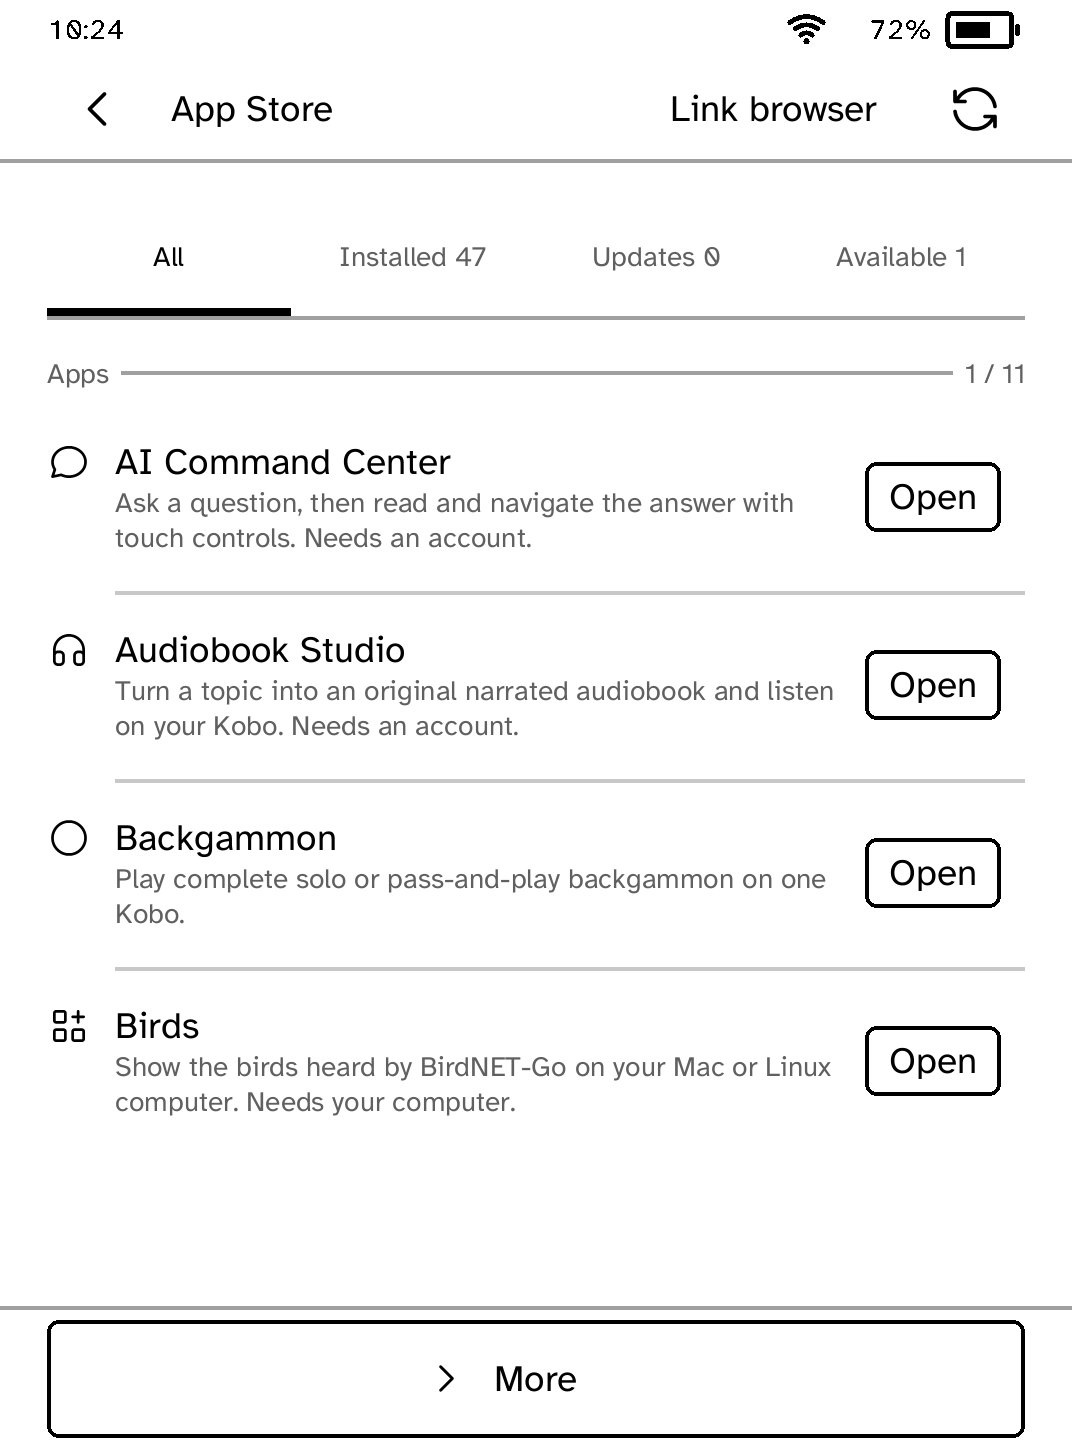
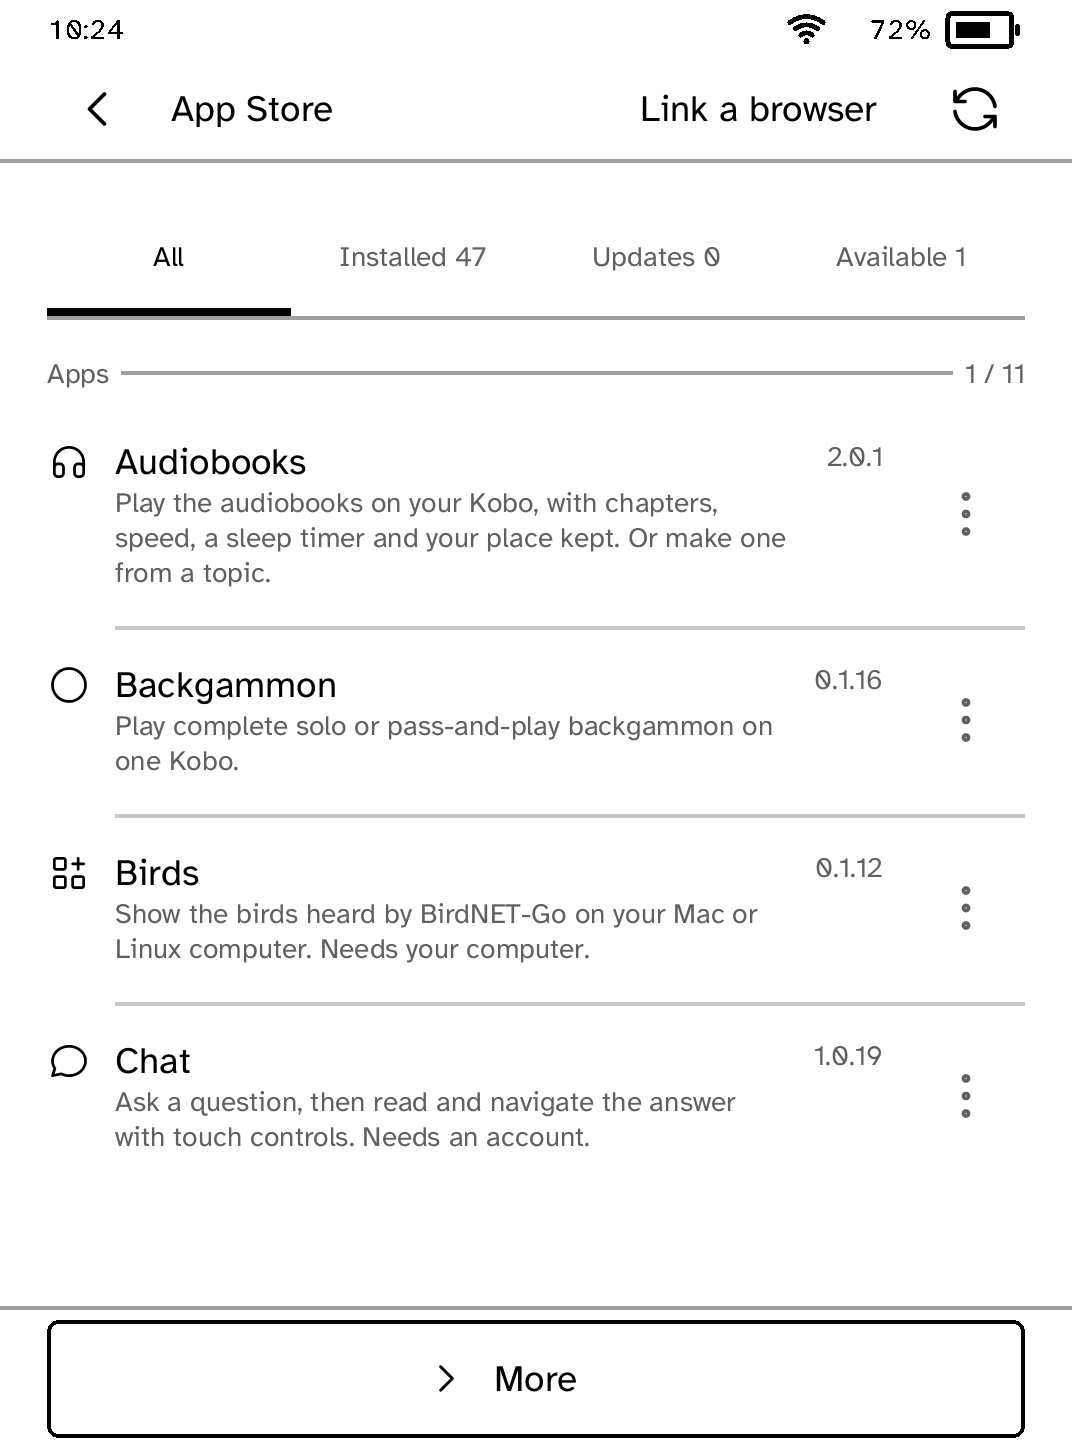
Call linking a browser one thing in Store, and say what to do when offline
Three taps used three names for one thing: Link browser in the list's
bar, Install from a browser over the screen it opened, and Link this
Kobo in the middle of it. Each is now Link a browser, the screen's
empty state says No browser linked, and the pairing steps no longer
switch to "pair".

A refresh that could not reach the network quoted the runtime: "the
device or network is unreachable. The last verified list is still
shown." It now says the list may be out of date and to connect to Wi-Fi
and refresh, or to refresh later when the network was not the cause.

diff --git a/docs/index.html b/docs/index.html
@@ -508,7 +508,7 @@ footer nav { display: flex; gap: 22px; flex-wrap: wrap; }
         <p>Opens installed apps and always keeps a route back to the Kobo reader.</p>
       </div>
       <div class="app">
-        <a class="shot" href="apps/store/"><picture><source type="image/webp" sizes="(max-width: 465px) calc(100vw - 36px), (max-width: 931px) 314px, 240px" srcset="media/site/app-thumbs/store-480w-9391822cf9f6.webp 480w, media/site/app-thumbs/store-800w-9391822cf9f6.webp 800w"><img src="media/site/apps/store.png" width="1072" height="1448" loading="lazy" alt="The Cobalt App Store listing installed and available apps"></picture></a>
+        <a class="shot" href="apps/store/"><picture><source type="image/webp" sizes="(max-width: 465px) calc(100vw - 36px), (max-width: 931px) 314px, 240px" srcset="media/site/app-thumbs/store-480w-ea060affe12d.webp 480w, media/site/app-thumbs/store-800w-ea060affe12d.webp 800w"><img src="media/site/apps/store.png" width="1072" height="1448" loading="lazy" alt="The Cobalt App Store listing installed and available apps"></picture></a>
         <h3><a href="apps/store/">App Store</a></h3>
         <p>Installs, updates, removes and reinstalls signed apps over Wi-Fi.</p>
       </div>

diff --git a/examples/store/src/main.rs b/examples/store/src/main.rs
@@ -145,6 +145,24 @@ impl Notice {
     }
 }
 
+/// What a refresh that failed says, in the owner's words and with the one
+/// thing to do next.
+///
+/// It used to append the runtime's own description, so an owner with Wi-Fi off
+/// read "the device or network is unreachable" and then that the last
+/// verified list was still shown, which is two sentences about the machinery
+/// and none about what to do.
+fn refresh_failure(error: DeviceError) -> String {
+    match error {
+        DeviceError::Unreachable | DeviceError::NotFound | DeviceError::TimedOut => {
+            "The list could not be updated, so it may be out of date. Connect to Wi-Fi and refresh."
+                .to_owned()
+        }
+        _ => "The list could not be updated, so it may be out of date. Refresh again later."
+            .to_owned(),
+    }
+}
+
 /// The labels a catalog row's own button can carry.
 const ROW_BUTTONS: [&str; 2] = ["Install", "Update"];
 
@@ -244,7 +262,7 @@ impl Store {
         let mut screen = ScreenBuilder::new("store-catalog")
             .top_bar("App Store")
             .top_bar_glyph(REFRESH, "Refresh", Glyph::Refresh)
-            .top_bar_action(APP_LINK, "Link browser");
+            .top_bar_action(APP_LINK, "Link a browser");
         // Try again belongs to the app's page, where the permissions are,
         // so the list says what happened without offering it.
         if let Some(notice) = &self.notice {
@@ -384,7 +402,7 @@ impl Store {
             let mut screen = ScreenBuilder::new("store-catalog")
                 .top_bar("App Store")
                 .top_bar_glyph(REFRESH, "Refresh", Glyph::Refresh)
-                .top_bar_action(APP_LINK, "Link browser");
+                .top_bar_action(APP_LINK, "Link a browser");
             if let Some(notice) = &self.notice {
                 screen = notice.draw(screen);
             }
@@ -475,7 +493,11 @@ impl Store {
 
     fn app_link(&self) -> Screen {
         let mut screen = ScreenBuilder::new("store-app-link")
-            .top_bar("Install from a browser")
+            // One name for this everywhere it appears: the bar on the list,
+            // this screen's title and the button that starts it. It used to
+            // be "Link browser", "Install from a browser" and "Link this
+            // Kobo" on three consecutive taps.
+            .top_bar("Link a browser")
             .owns_back(true);
         if let Some(notice) = &self.notice {
             screen = notice.draw(screen);
@@ -484,8 +506,8 @@ impl Store {
             AppLinkState::Unpaired => screen
                 .splash(
                     Some(Glyph::Globe),
-                    "Link this Kobo",
-                    "Link a browser to install apps from Cobalt app pages. Requests are encrypted for this Kobo.",
+                    "No browser linked",
+                    "Link the browser on your computer or phone to install apps from Cobalt's app pages. What it sends is encrypted for this Kobo.",
                 )
                 .bottom_action_marked(
                     if self.notice.is_some() {
@@ -496,7 +518,7 @@ impl Store {
                     if self.notice.is_some() {
                         "Reset link"
                     } else {
-                        "Link browser"
+                        "Link a browser"
                     },
                     if self.notice.is_some() {
                         Glyph::Refresh
@@ -512,8 +534,8 @@ impl Store {
             } => {
                 let minutes = (*expires_in).div_ceil(60);
                 let verification = pairing_verification(url).unwrap_or_else(|| "Unavailable".into());
-                let mut screen = screen.heading("Link this browser").text(
-                    "Scan the QR code. To pair manually, open the address below and enter both values.",
+                let mut screen = screen.text(
+                    "Scan the code with your phone, or open the address below in a browser and enter the code and key shown.",
                 );
                 if let Some(picture) = self.pairing_qr {
                     screen = screen.picture(picture, 58);
@@ -1223,10 +1245,7 @@ impl KoboApp for Store {
             }
             (DeviceRequest::RefreshAppCatalog, DeviceResult::Failed(error)) => {
                 self.refreshing = false;
-                self.notice = Some(Notice::attention(format!(
-                    "The catalog could not be refreshed: {}. The last verified list is still shown.",
-                    error.describe()
-                )));
+                self.notice = Some(Notice::attention(refresh_failure(error)));
             }
             (DeviceRequest::ReadAppCatalog, DeviceResult::Failed(_)) => {
                 refresh_after_paint = self.refresh_after_cache;
@@ -2813,7 +2832,29 @@ mod tests {
             link.glyph.is_none(),
             "the browser link is an unlabelled icon"
         );
-        assert!(words(&screen, &CLARA_BW_METRICS).contains("Link browser"));
+        assert!(words(&screen, &CLARA_BW_METRICS).contains("Link a browser"));
+    }
+
+    #[test]
+    fn linking_a_browser_has_one_name_from_the_list_to_its_own_screen() {
+        let mut runner = opened(&[app("apple", None)]);
+        let screen = painted(&runner.action(action_id(APP_LINK)));
+        assert_eq!(
+            screen.top_bar.as_ref().map(|bar| bar.title.as_str()),
+            Some("Link a browser")
+        );
+        let drawn = format!("{screen:?}");
+        for other in ["Install from a browser", "Link this Kobo", "Link browser\""] {
+            assert!(!drawn.contains(other), "{other}: {drawn}");
+        }
+    }
+
+    #[test]
+    fn a_refresh_that_could_not_reach_the_network_says_what_to_do_in_plain_words() {
+        let offline = super::refresh_failure(DeviceError::Unreachable);
+        assert!(offline.contains("Connect to Wi-Fi"), "{offline}");
+        assert!(!offline.contains("unreachable"), "{offline}");
+        assert!(!super::refresh_failure(DeviceError::Backend).contains("Wi-Fi"));
     }
 
     #[test]

diff --git a/scripts/quality/check-store-sim.py b/scripts/quality/check-store-sim.py
@@ -86,7 +86,7 @@ def main():
                 # are read before anything is installed. The page's Install
                 # installs, stays on the page, says so, and offers Open.
                 drive('wait-idle', 'expect-state /simulation#/appStore/mode "signed-local"',
-                      'expect Link browser', 'tap-id filter-available', 'expect Available to install',
+                      'expect Link a browser', 'tap-id filter-available', 'expect Available to install',
                       'tap Install', 'wait-for Permissions', 'expect Not installed', 'shot available')
                 assert not (fixture / 'installed/apps/quality-fixture').exists()
                 drive('tap-id install-quality-fixture', 'wait-for is installed.',
